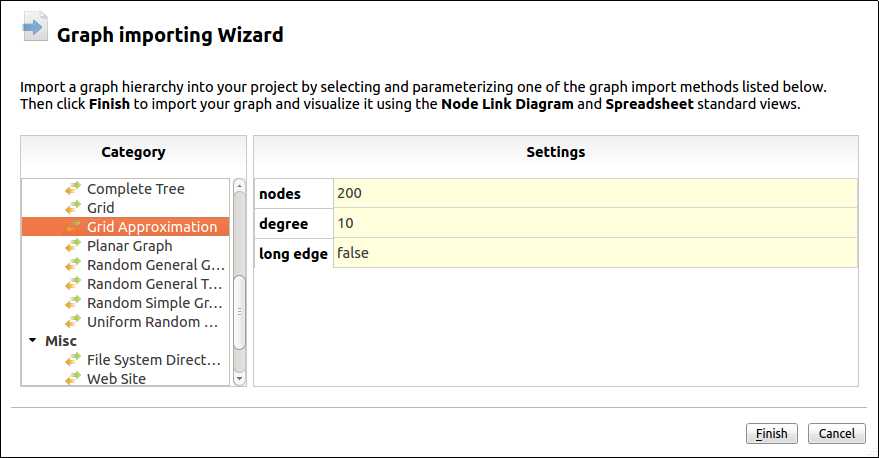
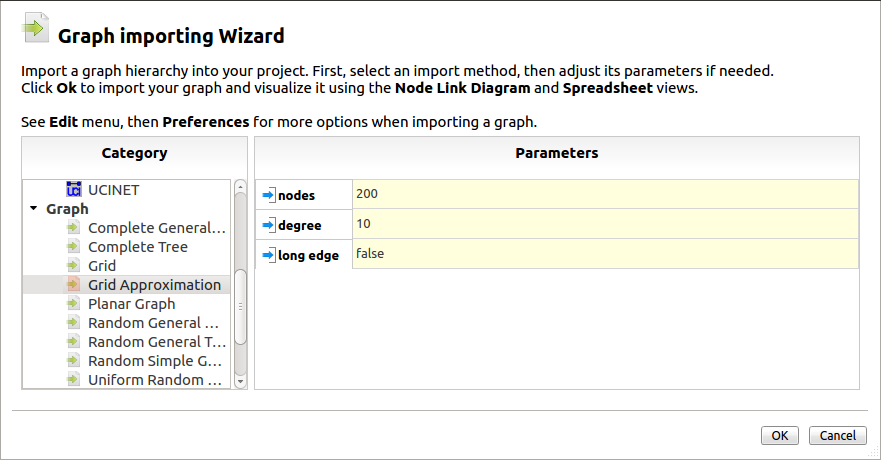
user doc fixes and updates
git-svn-id: https://svn.code.sf.net/p/auber/code/tulip@11794 f5d4c5f9-c943-4916-8a57-bd8605bf961c

diff --git a/doc/user/tutorial_beginner.rst b/doc/user/tutorial_beginner.rst
@@ -62,9 +62,9 @@ Build a Graph
 Save or Export your Work
 ========================
 
-Tulip allows you to save your whole project with its own file format (\*.tlpx). To do so, select *File → Save* or *File → Save as*.
+Tulip allows you to save your whole project (all opened graphs and displayed views) with its own file format (\*.tlpx). To do so, select *File → Save* or *File → Save as*.
 
-If you are interested to only save the graph, Tulip proposes to save it in its own TLP format, do a right click on the graph's name in the graph list and select *Save* in the contextual menu then displayed. You can also export it in the GML format (other plugins can offer more possibilities) by selecting *Export* in the same contextual menu.
+If you are interested to only save one graph, Tulip proposes to save it in its own TLP or TLPB formats; do a right click on the graph's name in the graph list and select *Save* in the contextual menu then displayed. You can also export it in the GML format (other plugins can offer more possibilities) by selecting *Export* in the same contextual menu.
 
 
 .. _first_algo:
@@ -72,19 +72,19 @@ If you are interested to only save the graph, Tulip proposes to save it in its o
 Apply an Algorithm
 ==================
 
-As a visualization tool, Tulip offered several algorithms to adapt your graph layout. You can use them very simply.
+As a visualization tool, Tulip offers several algorithms to adapt your graph layout. You can use them very simply.
 
-* Following the steps mentioned above, let us generate a *Random General Graph* (*[File →] Import → Random General Graph* in the *Graph* category). We will specify here the *nodes* and *edges* settings (*Random General Graph* specific fields displayed in the import wizard) by typing *50* in both of the fields.
+* Following the steps mentioned above, let us generate a *Random General Graph* (*[File →] Import → Random General Graph* in the *Graph* category). We will specify here the *nodes* and *edges* parameters (*Random General Graph* specific fields displayed in the import wizard) by typing *50* in both of the fields.
 
 .. image:: _images/tutorial_beginner-random_graph.png
      :width: 600
 
-* Once the button *Finish* is pressed, you can see a graph similar to this one :
+* Once the button *OK* is pressed, you can see a graph similar to this one :
    
 .. image:: _images/tutorial_beginner-graph_tangled.png
      :width: 600
 
-Since node positions are choose randomly upon generation, the layout is tangled and not really clear.
+Since node positions are choosen randomly upon generation, the layout is tangled and not really clear.
 
 * To improve it, we can apply a *Layout algorithm*. In the Algorithm window, select *Layout → Force directed → GEM (Frick)*. A new position for each node will be computed in order to get a better layout:
 
@@ -93,7 +93,7 @@ Since node positions are choose randomly upon generation, the layout is tangled 
 
 Some *layout* algorithms can only be applied to graphs belonging to a specific graph class. For instance, the *Mixed Model* algorithm can only be applied to a simple graph. The *Tree layout* algorithms are dedicated to trees but most of them can be applied to graph of any type (using a spanning tree of the graph); so do not hesitate to experiment in order to find the perfect layout for your data.
 
-There are many algorithms for testing, coloring, resizing... more information on them can be find in :ref:`the Algorithm section <algo>`.
+There are many algorithms for testing, coloring, resizing... more information on them can be found in :ref:`the Algorithm section <algo>`.
 
 .. |icon_import| image:: ../../library/tulip-gui/resources/icons/64/document-import.png
      :width: 32
